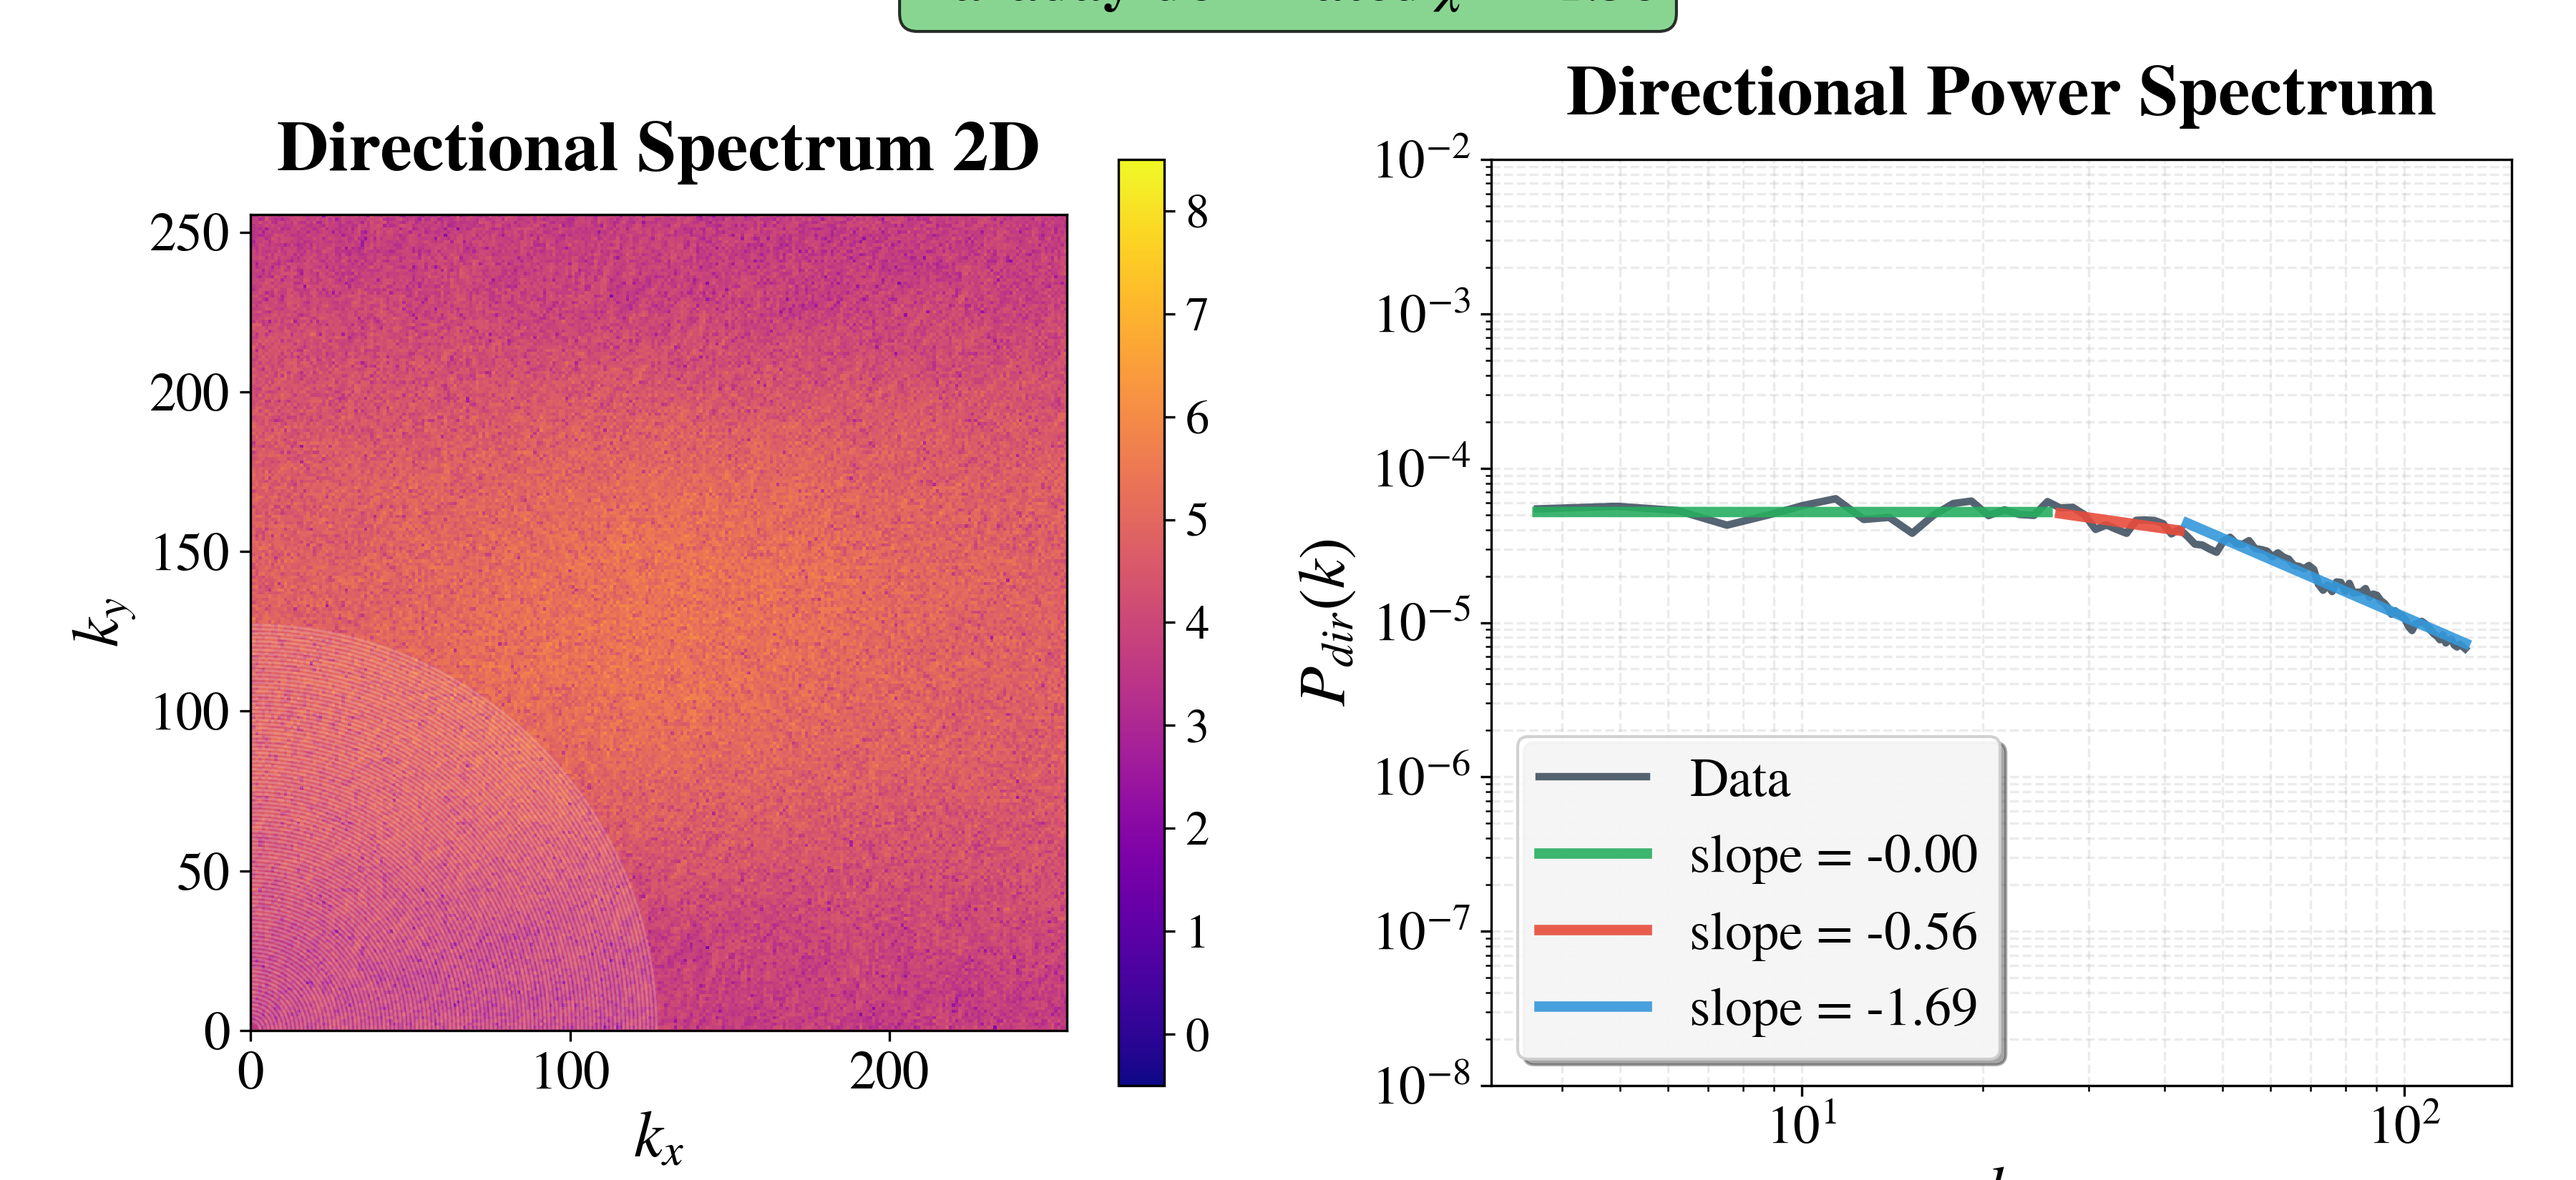
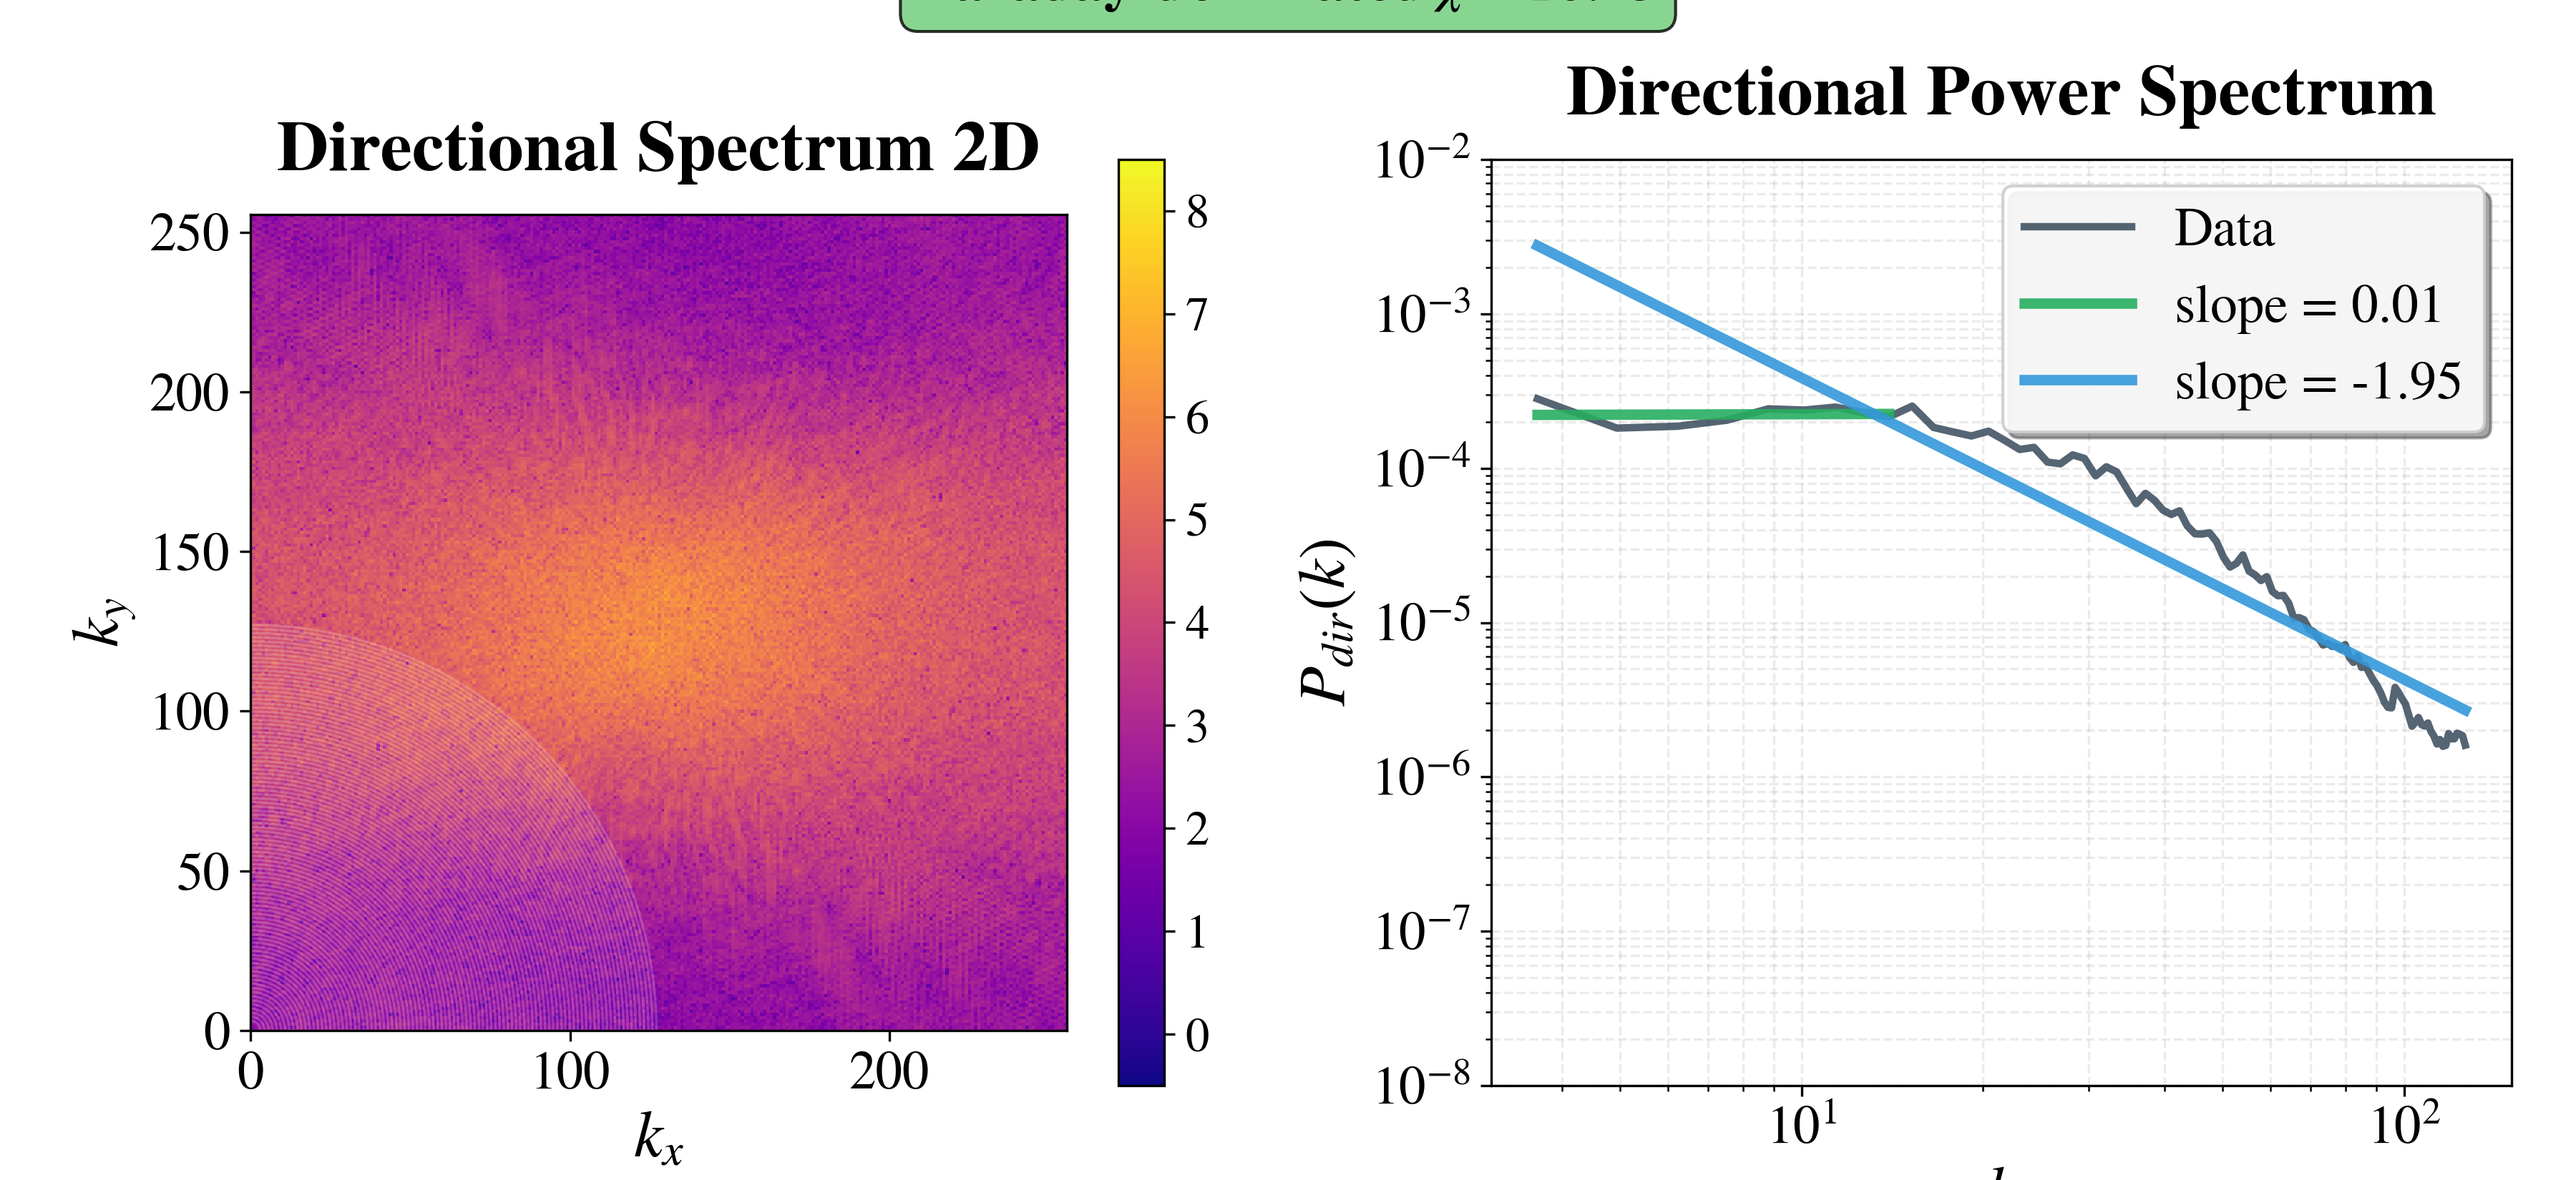
Found error with red line slope

diff --git a/compare_measures/directional_spectrum/plot_red_slope_vs_chi.py b/compare_measures/directional_spectrum/plot_red_slope_vs_chi.py
@@ -1,0 +1,145 @@
+import numpy as np
+import matplotlib.pyplot as plt
+from directional_spectrum_single_lambda import (
+    load_fields, polarized_emissivity_simple, faraday_density,
+    separated_P_map, ring_average, plot_fit,
+    los_axis, emit_frac, screen_frac, C, h5_path, ring_bins
+)
+
+def compute_sigma_RM():
+    Bx, By, Bz, ne = load_fields(h5_path)
+    Pi = polarized_emissivity_simple(Bx, By, 2.0)
+    Bpar = Bz
+    phi = faraday_density(ne, Bpar, C)
+    _, sigma_RM = separated_P_map(Pi, phi, 1.0, los_axis, emit_frac, screen_frac)
+    return sigma_RM
+
+def compute_red_slope(lam, sigma_RM):
+    Bx, By, Bz, ne = load_fields(h5_path)
+    Pi = polarized_emissivity_simple(Bx, By, 2.0)
+    Bpar = Bz
+    phi = faraday_density(ne, Bpar, C)
+    
+    P, _ = separated_P_map(Pi, phi, lam, los_axis, emit_frac, screen_frac)
+    Q = P.real
+    U = P.imag
+    chi_angle = 0.5*np.arctan2(U,Q)
+    
+    c2 = np.cos(2*chi_angle)
+    s2 = np.sin(2*chi_angle)
+    kc, Pk, _, _, _, _ = ring_average(c2, ring_bins, 3.0, None, True, False)
+    _, Pk2, _, _, _, _ = ring_average(s2, ring_bins, 3.0, None, True, False)
+    Pdir = Pk + Pk2
+    
+    chi = 2*lam**2*sigma_RM
+    if chi < 0.3:
+        return None
+    
+    alphas = []
+    slopes = []
+    
+    for i in np.linspace(0.01, 1.00, 1000):
+        result = plot_fit(None, kc, Pdir, 0, i, "red", isPlot=False)
+        alphas.append(i)
+        if result is not None and isinstance(result, tuple) and len(result) == 2:
+            intercept, slope = result
+            slopes.append(slope)
+        else:
+            slopes.append(None)
+    
+    best_coarse = None
+    min_abs_slope = float('inf')
+    for i, slope in reversed(list(zip(alphas, slopes))):
+        if slope is not None:
+            abs_slope = abs(slope)
+            if abs_slope <= min_abs_slope:
+                min_abs_slope = abs_slope
+                best_coarse = i
+    
+    best = best_coarse
+    if best_coarse is not None:
+        coarse_spacing = (alphas[-1] - alphas[0]) / (len(alphas) - 1) if len(alphas) > 1 else 0.01
+        search_range = max(0.01, 2 * coarse_spacing)
+        i_min = max(0.01, best_coarse - search_range)
+        i_max = min(1.00, best_coarse + search_range)
+        
+        fine_alphas = np.linspace(i_min, i_max, 1000)
+        min_abs_slope_fine = float('inf')
+        for i_fine in reversed(fine_alphas):
+            result = plot_fit(None, kc, Pdir, 0, i_fine, "red", isPlot=False)
+            if result is not None and isinstance(result, tuple) and len(result) == 2:
+                intercept_fine, slope_fine = result
+                abs_slope_fine = abs(slope_fine)
+                if abs_slope_fine <= min_abs_slope_fine:
+                    min_abs_slope_fine = abs_slope_fine
+                    best = i_fine
+    
+    if chi < 4:
+        best = 0.0
+    
+    xv = np.linspace(0.05, 0.95, 200)
+    k0, k1 = kc.min(), kc.max()
+    yl, yr = [], []
+    for x in xv:
+        a = plot_fit(None, kc, Pdir, 0, x, "r", isPlot=False)
+        b = plot_fit(None, kc, Pdir, x, 1.0, "b", isPlot=False)
+        if a and b:
+            kx = k0 + x*(k1-k0)
+            yl.append(np.exp(a[0]) * kx**a[1])
+            yr.append(np.exp(b[0]) * kx**b[1])
+        else:
+            yl.append(np.nan)
+            yr.append(np.nan)
+    
+    xv = np.asarray(xv)
+    yl = np.asarray(yl)
+    yr = np.asarray(yr)
+    m = np.isfinite(yl)&np.isfinite(yr)&(yl>0)&(yr>0)
+    xv, yl, yr = xv[m], yl[m], yr[m]
+    d = np.log(yl) - np.log(yr)
+    idx = np.where(d[:-1]*d[1:]<=0)[0]
+    xs, ys = [], []
+    for i in idx:
+        x0, x1 = xv[i], xv[i+1]
+        d0, d1 = d[i], d[i+1]
+        t = 0 if d1==d0 else -d0/(d1-d0)
+        xs.append(x0 + (x1-x0)*t)
+        ys.append(np.exp(np.interp(xs[-1], [x0,x1], [np.log(yl[i]), np.log(yl[i+1])])))
+    j = np.argmin(np.abs(np.array(xs)-0.18))
+    x1 = xs[j]
+    
+    result = plot_fit(None, kc, Pdir, best, x1, "#E74C3C", isPlot=False)
+    if result is not None:
+        return result[1]
+    return None
+
+sigma_RM = compute_sigma_RM()
+chi_values = np.linspace(0.3, 20.0, 100)
+slopes = []
+
+for chi in chi_values:
+    lam = np.sqrt(chi / (2.0 * sigma_RM))
+    slope = compute_red_slope(lam, sigma_RM)
+    slopes.append(slope)
+    print(f"chi={chi:.2f}, slope={slope}")
+
+chi_clean = []
+slopes_clean = []
+for chi, slope in zip(chi_values, slopes):
+    if slope is not None:
+        chi_clean.append(chi)
+        slopes_clean.append(slope)
+
+chi_values = np.array(chi_clean)
+slopes = np.array(slopes_clean)
+
+plt.figure(figsize=(10, 6))
+plt.plot(chi_values, slopes, '-', color='#E74C3C', lw=3)
+plt.xlabel('$\\chi$', fontsize=20)
+plt.ylabel('Red Line Slope', fontsize=20)
+plt.title('Red Line Slope vs $\\chi$', fontsize=22, fontweight='bold')
+plt.grid(True, alpha=0.3)
+plt.tight_layout()
+plt.savefig('red_slope_vs_chi.png', dpi=300, bbox_inches='tight')
+plt.show()
+

diff --git a/compare_measures/directional_spectrum/directional_spectrum_single_lambda.py b/compare_measures/directional_spectrum/directional_spectrum_single_lambda.py
@@ -59,7 +59,7 @@ def separated_P_map(Pi,phi,lam,los_axis,emit_frac,screen_frac):
     P_emit = P_emit - P_emit.mean()
     Phi = ph_l[s0:s1].sum(0)
     sigma_RM = Phi.std()              
-    print(sigma_RM)
+    # print(sigma_RM)
     return P_emit*np.exp(2j*(lam**2)*Phi), sigma_RM
 
 def hann2d(ny,nx):
@@ -262,7 +262,7 @@ def main(lam, save_path=None, show_plots=True):
         xs.append(x0 + (x1-x0)*t)
         ys.append(np.exp(np.interp(xs[-1], [x0,x1], [np.log(yl[i]), np.log(yl[i+1])])))
     j = np.argmin(np.abs(np.array(xs)-0.18))
-    print(f"x={xs[j]:.6f}, y={ys[j]:.6e}")
+    # print(f"x={xs[j]:.6f}, y={ys[j]:.6e}")
 
     x1=xs[j]
     # plot_fit(ax2, kc, Pdir, 0, best, "green")
@@ -271,16 +271,17 @@ def main(lam, save_path=None, show_plots=True):
     chi = 2*lam**2*sigma_RM
     if chi < 4:
         best = 0.0
-    print("best:", best)
+
+    # print("best:", best)
 
 
     plot_fit(ax2, kc, Pdir, 0, best, "#27AE60")
-    if chi < 0.3:
-        plot_fit(ax2, kc, Pdir, 0, 1.0, "#3498DB")
+    if chi > -300:
+        main_slope=plot_fit(ax2, kc, Pdir, 0, 1.0, "#3498DB")
     else:
-        plot_fit(ax2, kc, Pdir, best, x1, "#E74C3C")
+        main_slope=plot_fit(ax2, kc, Pdir, best, x1, "#E74C3C")
         plot_fit(ax2, kc, Pdir, x1, 1.0, "#3498DB")
-
+    print(chi, '\t', main_slope[1])
     # plt.figure(figsize=(6,4))
     # plt.loglog(xv, yl, 'r-', label='left-end')
     # plt.loglog(xv, yr, 'b-', label='right-start')
@@ -344,10 +345,10 @@ def main(lam, save_path=None, show_plots=True):
     std_val = np.std(S_padc)
 
     # Print in console
-    print(f"lambda={lam}, chi = {chi:.2f}, <S_padc> = {mean_val:.5f}; sigma_S_padc = {std_val:.5f}")
+    # print(f"lambda={lam}, chi = {chi:.2f}, <S_padc> = {mean_val:.5f}; sigma_S_padc = {std_val:.5f}")
     
     return sigma_RM
 
 if __name__ == "__main__":
-    lam = 2.9  # 2.1
+    lam = 2.0  # 2.1
     main(lam)

diff --git a/compare_measures/directional_spectrum/generate_chi_animation_frames.py b/compare_measures/directional_spectrum/generate_chi_animation_frames.py
@@ -14,11 +14,11 @@ def compute_sigma_RM():
     _, sigma_RM = separated_P_map(Pi, phi, 1.0, los_axis, emit_frac, screen_frac)
     return sigma_RM
 
-def generate_animation_frames(chi_min=3.0, chi_max=20.0, n_frames=104, 
-                               frames_dir=None, show_progress=True):
+def generate_animation_frames(chi_min=0, chi_max=0.5, n_frames=20, 
+                               frames_dir=None, show_progress=False):
     if frames_dir is None:
         script_dir = Path(__file__).parent
-        frames_dir = script_dir / "frames"
+        frames_dir = script_dir / "frames1"
     frames_dir = Path(frames_dir)
     frames_dir.mkdir(parents=True, exist_ok=True)
     
@@ -39,7 +39,7 @@ def generate_animation_frames(chi_min=3.0, chi_max=20.0, n_frames=104,
     
     for i1, chi_target in enumerate(chi_values):
         i=i1+47
-        if chi_target <= 0:
+        if chi_target <= 0: 
             lam = 0.0
         else:
             lam = np.sqrt(chi_target / (2.0 * sigma_RM))
